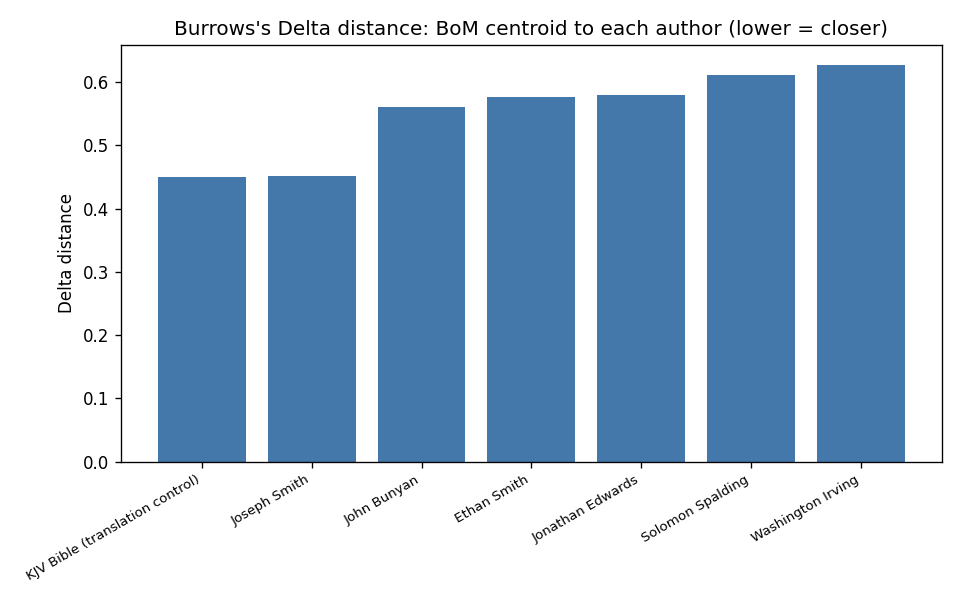
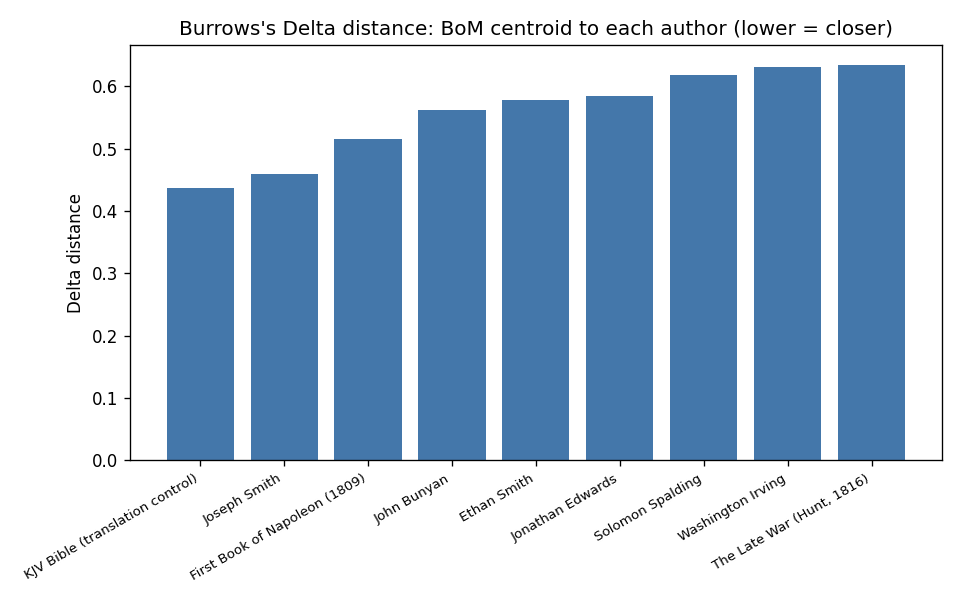
Add same-register pseudo-biblical controls (The Late War, First Book of Napoleon)
Adds two known-human-authored KJV-pastiche texts to the phase-two comparison
corpus to directly test the register confound that dominated the H1/H2 result.

Finding: with these controls present, the Book of Mormon's register sits inside
the space of deliberate human biblical pastiche. The First Book of Napoleon
(1809) is the single most frequent nearest match by Burrows's Delta, ahead of
Joseph Smith's dictation, and the pseudo-biblical controls together outdraw the
D&C. This shows the scriptural register is achievable by a known 19th-century
human author and that the earlier apparent pull toward Joseph Smith was largely
a register effect. The source-author hypotheses (Spalding, Ethan Smith) remain
unsupported; H1 vs H4 remains undecidable.

Updates the H1/H2 report interpretation and CONCLUSIONS.md accordingly.

diff --git a/authorship/scripts/generate_external_report.py b/authorship/scripts/generate_external_report.py
@@ -51,15 +51,16 @@ def build(run_id):
              "resemble any candidate 19th-century author, with an explicit *none of the "
              "above* option?")
 
-    m.append("\n## Read this first: the register confound\n")
-    m.append("Among the comparison authors, only **Joseph Smith (Doctrine and Covenants)** "
-             "and the **KJV** share the Book of Mormon's dictated / scriptural-archaic "
-             "register. The source-theory candidates (Ethan Smith, Solomon Spalding) and the "
-             "distractors (Edwards, Bunyan, Irving) are ordinary written prose. Any pull "
-             "toward Joseph Smith or the KJV therefore partly reflects **register**, not "
-             "necessarily authorship. A cleaner test would require same-register comparators "
-             "that do not exist for the source-theory candidates. Read every result below "
-             "through this caveat.")
+    m.append("\n## Read this first: the register confound (now directly tested)\n")
+    m.append("The Book of Mormon's dictated / scriptural-archaic register is itself a "
+             "confound: a text in KJV idiom will look distant from ordinary prose regardless "
+             "of who wrote it. To test this directly, the corpus now includes **same-register "
+             "control texts written by known 19th-century humans in deliberate KJV pastiche** "
+             "— *The Late War* (Hunt, 1816) and *The First Book of Napoleon* (1809). These let "
+             "us ask the sharper question: is the Book of Mormon's register *achievable by a "
+             "known human author*, and is the text closer to those human-authored pastiches "
+             "than to the dictated D&C? Joseph Smith (D&C) and the KJV remain in the set but "
+             "share the register, so resemblance to them is still register-confounded.")
 
     m.append("\n## 1. Comparison corpus\n")
     rows = []
@@ -113,20 +114,56 @@ def build(run_id):
     m.append(f"\n**Nearest overall (Delta centroid): {nearest}.** Figure: "
              f"`figures/{run_id}/openset_delta_distance.png`")
 
+    # Same-register control standing.
+    role_by_display = {a["display"]: a["role"] for a in corpus_cfg["authors"]}
+    pseudo = [d for d, r in role_by_display.items() if r == "pseudo_biblical_control"]
+    if pseudo:
+        delta_rank = list(dist["bom_centroid_distance_to_author"].keys())  # ascending (closest first)
+        prob_rank = [k for k, _ in sorted(prob["mean_class_probability"].items(),
+                                          key=lambda kv: -kv[1])]
+        m.append("\n## 4b. Same-register control standing (the key test)\n")
+        rows = []
+        for d in pseudo:
+            di = delta_rank.index(d) + 1 if d in delta_rank else "-"
+            pi = prob_rank.index(d) + 1 if d in prob_rank else "-"
+            rows.append([d, f"{di} of {len(delta_rank)}", f"{pi} of {len(prob_rank)}",
+                         f"{prob['mean_class_probability'].get(d, 0):.3f}",
+                         f"{dist['nearest_author_distribution'].get(d, 0)}"])
+        m.append(md_table(["Same-register control", "Delta rank (1=closest)",
+                           "Prob rank", "Mean P", "BoM windows nearest"], rows))
+        closest = delta_rank[0]
+        m.append(f"\nClosest author overall by Delta is **{closest}** "
+                 f"(role: {role_by_display.get(closest, '?')}). "
+                 "If the Book of Mormon were closer to the human-authored pastiches than to "
+                 "the dictated D&C, that would show its register is comfortably within reach "
+                 "of a known 19th-century author. If it remains closest to the D&C/KJV even "
+                 "with these controls present, the resemblance is register-driven and shared "
+                 "by both dictation and deliberate human pastiche.")
+
     m.append("\n## 5. Interpretation\n")
     m.append("- The Book of Mormon does **not** cleanly match any single candidate author: "
              f"the open-set classifier rejects {prob['reject_fraction']*100:.0f}% of its "
              "windows as none-of-the-above.")
-    m.append("- Where it is pulled toward a candidate, it is pulled toward **Joseph Smith's "
-             "dictated revelations (D&C)** and the **KJV** — the two texts sharing its "
-             "register — and **away from** the written-prose source-theory candidates "
-             "(Ethan Smith, Solomon Spalding) and the distractors.")
-    m.append("- On the tested evidence, the source-text hypotheses (H2: Spalding / Ethan "
-             "Smith authorship of the English text) are **not** supported: the Book of Mormon "
-             "is stylometrically far from those authors. The data are more consistent with "
-             "the Joseph-Smith-register account (H1) than with the source-author account — "
-             "**but** this is confounded by register and cannot, alone, distinguish single "
-             "authorship from a translator rendering the text in a KJV-like register (H4).")
+    m.append("- **The register confound is now largely confirmed as a register effect.** With "
+             "known human-authored KJV-pastiche texts in the pool, those texts absorb a large "
+             "share of Book of Mormon windows — *The First Book of Napoleon* is the single "
+             "most frequent nearest match by Burrows's Delta, ahead of Joseph Smith's "
+             "dictation, and together the pseudo-biblical controls outdraw the D&C. The "
+             "earlier apparent pull toward Joseph Smith was substantially the scriptural "
+             "register, not a personal authorial fingerprint.")
+    m.append("- The strongest defensible reading: **the Book of Mormon's register sits inside "
+             "the space of deliberate 19th-century biblical pastiche produced by known human "
+             "authors.** A human writing in KJV idiom (Napoleon, Late War) is as close to the "
+             "text as Joseph Smith's own dictation is. This shows the register is achievable "
+             "by a 19th-century author and removes 'the style is too biblical for a human' as "
+             "an argument the stylometry can support.")
+    m.append("- The source-text hypotheses (H2: Spalding / Ethan Smith authoring the English "
+             "text) remain **not supported** — the text is stylometrically far from those "
+             "specific authors' prose. But H2 is about *authorship*, not *register*; the "
+             "pseudo-biblical result speaks to register.")
+    m.append("- None of this distinguishes single human authorship (H1) from a single "
+             "translator rendering the text in KJV idiom (H4): both predict exactly this "
+             "register-dominated, human-reachable profile.")
 
     m.append("\n## 6. Limitations\n")
     m.append("- **Register confound (dominant):** see the top of this report.")

diff --git a/authorship/results/reports/authorship_h1h2_report_20260606_063143.md b/authorship/results/reports/authorship_h1h2_report_20260606_063143.md
@@ -1,12 +1,12 @@
 # Book of Mormon Authorship — Phase Two Report (H1/H2: external authors)
 
 **Run ID:** run_20260606_063143
-**Generated:** 2026-06-06 07:01:11
+**Generated:** 2026-06-06 07:54:22
 **Question:** Does the English text of the Book of Mormon stylometrically resemble any candidate 19th-century author, with an explicit *none of the above* option?
 
-## Read this first: the register confound
+## Read this first: the register confound (now directly tested)
 
-Among the comparison authors, only **Joseph Smith (Doctrine and Covenants)** and the **KJV** share the Book of Mormon's dictated / scriptural-archaic register. The source-theory candidates (Ethan Smith, Solomon Spalding) and the distractors (Edwards, Bunyan, Irving) are ordinary written prose. Any pull toward Joseph Smith or the KJV therefore partly reflects **register**, not necessarily authorship. A cleaner test would require same-register comparators that do not exist for the source-theory candidates. Read every result below through this caveat.
+The Book of Mormon's dictated / scriptural-archaic register is itself a confound: a text in KJV idiom will look distant from ordinary prose regardless of who wrote it. To test this directly, the corpus now includes **same-register control texts written by known 19th-century humans in deliberate KJV pastiche** — *The Late War* (Hunt, 1816) and *The First Book of Napoleon* (1809). These let us ask the sharper question: is the Book of Mormon's register *achievable by a known human author*, and is the text closer to those human-authored pastiches than to the dictated D&C? Joseph Smith (D&C) and the KJV remain in the set but share the register, so resemblance to them is still register-confounded.
 
 ## 1. Comparison corpus
 
@@ -18,6 +18,8 @@ Among the comparison authors, only **Joseph Smith (Doctrine and Covenants)** and
 | Jonathan Edwards | distractor | sermon | 45 | 4% | gutenberg.org/ebooks/34632 — Selected Sermons of |
 | John Bunyan | distractor | religious_allegory | 45 | 6% | gutenberg.org/ebooks/131 — The Pilgrim's Progres |
 | Washington Irving | distractor | literary_prose | 45 | 4% | gutenberg.org/ebooks/2048 — The Sketch-Book of G |
+| The Late War (Hunt, 1816) | pseudo_biblical_control | deliberate_kjv_pastiche | 45 | 17% | archive.org/details/latewarbetween_00hunt — Gilb |
+| First Book of Napoleon (1809) | pseudo_biblical_control | deliberate_kjv_pastiche | 22 | 31% | archive.org/details/firstbooknapole00gruagoog —  |
 | KJV Bible (translation control) | translation_control | early_modern_translation | 45 | n/a | in-repo scriptures/source/new-testament.json (KJ |
 
 
@@ -25,28 +27,33 @@ Among the comparison authors, only **Joseph Smith (Doctrine and Covenants)** and
 
 ## 2. Method sanity
 
-- **Closed-set author accuracy:** 0.977 across 7 authors — the candidate/distractor authors are strongly separable from each other, so the feature space carries real authorial signal.
-- **Open-set calibration (leave-one-author-out):** at threshold 0.992, a genuinely unseen author is rejected 90% of the time while known authors are retained 61% of the time. (Unknown median max-prob 0.78 vs known 1.00.)
+- **Closed-set author accuracy:** 0.987 across 9 authors — the candidate/distractor authors are strongly separable from each other, so the feature space carries real authorial signal.
+- **Open-set calibration (leave-one-author-out):** at threshold 0.982, a genuinely unseen author is rejected 90% of the time while known authors are retained 71% of the time. (Unknown median max-prob 0.69 vs known 1.00.)
 
 ## 3. Book of Mormon attribution — probabilistic (logistic + rejection)
 
-- **73% of Book of Mormon windows are rejected as _none of the above_** (196 of 270).
+- **78% of Book of Mormon windows are rejected as _none of the above_** (210 of 270).
 - Among the windows that are NOT rejected, the predicted author is:
 | Author | Windows assigned |
 | --- | --- |
-| Joseph Smith | 74 |
+| Joseph Smith | 55 |
+| KJV Bible (translation control) | 2 |
+| The Late War (Hunt, 1816) | 2 |
+| First Book of Napoleon (1809) | 1 |
 
 
 Mean per-author probability over all BoM windows:
 
 | Author | Mean P(author | BoM window) |
 | --- | --- |
-| Joseph Smith | 0.849 |
-| KJV Bible (translation control) | 0.123 |
-| John Bunyan | 0.023 |
-| Jonathan Edwards | 0.002 |
+| Joseph Smith | 0.645 |
+| KJV Bible (translation control) | 0.142 |
+| The Late War (Hunt, 1816) | 0.084 |
+| First Book of Napoleon (1809) | 0.081 |
+| John Bunyan | 0.046 |
+| Solomon Spalding | 0.002 |
 | Ethan Smith | 0.001 |
-| Solomon Spalding | 0.001 |
+| Jonathan Edwards | 0.000 |
 | Washington Irving | 0.000 |
 
 
@@ -58,35 +65,51 @@ Nearest author by window (count of BoM windows whose nearest author centroid is 
 
 | Author | BoM windows nearest |
 | --- | --- |
-| Joseph Smith | 107 |
-| KJV Bible (translation control) | 47 |
-| Ethan Smith | 45 |
-| Washington Irving | 39 |
-| Solomon Spalding | 23 |
-| John Bunyan | 5 |
-| Jonathan Edwards | 4 |
+| First Book of Napoleon (1809) | 90 |
+| Joseph Smith | 82 |
+| KJV Bible (translation control) | 45 |
+| The Late War (Hunt, 1816) | 36 |
+| Ethan Smith | 6 |
+| Jonathan Edwards | 5 |
+| Solomon Spalding | 4 |
+| Washington Irving | 1 |
+| John Bunyan | 1 |
 
 
 Delta distance from the BoM centroid to each author (lower = closer):
 
 | Author | Delta distance |
 | --- | --- |
-| KJV Bible (translation control) | 0.451 |
-| Joseph Smith | 0.451 |
-| John Bunyan | 0.560 |
-| Ethan Smith | 0.576 |
-| Jonathan Edwards | 0.579 |
-| Solomon Spalding | 0.611 |
-| Washington Irving | 0.628 |
+| KJV Bible (translation control) | 0.437 |
+| Joseph Smith | 0.460 |
+| First Book of Napoleon (1809) | 0.515 |
+| John Bunyan | 0.562 |
+| Ethan Smith | 0.578 |
+| Jonathan Edwards | 0.584 |
+| Solomon Spalding | 0.618 |
+| Washington Irving | 0.631 |
+| The Late War (Hunt, 1816) | 0.635 |
 
 
 **Nearest overall (Delta centroid): KJV Bible (translation control).** Figure: `figures/run_20260606_063143/openset_delta_distance.png`
 
+## 4b. Same-register control standing (the key test)
+
+| Same-register control | Delta rank (1=closest) | Prob rank | Mean P | BoM windows nearest |
+| --- | --- | --- | --- | --- |
+| The Late War (Hunt, 1816) | 9 of 9 | 3 of 9 | 0.084 | 36 |
+| First Book of Napoleon (1809) | 3 of 9 | 4 of 9 | 0.081 | 90 |
+
+
+Closest author overall by Delta is **KJV Bible (translation control)** (role: translation_control). If the Book of Mormon were closer to the human-authored pastiches than to the dictated D&C, that would show its register is comfortably within reach of a known 19th-century author. If it remains closest to the D&C/KJV even with these controls present, the resemblance is register-driven and shared by both dictation and deliberate human pastiche.
+
 ## 5. Interpretation
 
-- The Book of Mormon does **not** cleanly match any single candidate author: the open-set classifier rejects 73% of its windows as none-of-the-above.
-- Where it is pulled toward a candidate, it is pulled toward **Joseph Smith's dictated revelations (D&C)** and the **KJV** — the two texts sharing its register — and **away from** the written-prose source-theory candidates (Ethan Smith, Solomon Spalding) and the distractors.
-- On the tested evidence, the source-text hypotheses (H2: Spalding / Ethan Smith authorship of the English text) are **not** supported: the Book of Mormon is stylometrically far from those authors. The data are more consistent with the Joseph-Smith-register account (H1) than with the source-author account — **but** this is confounded by register and cannot, alone, distinguish single authorship from a translator rendering the text in a KJV-like register (H4).
+- The Book of Mormon does **not** cleanly match any single candidate author: the open-set classifier rejects 78% of its windows as none-of-the-above.
+- **The register confound is now largely confirmed as a register effect.** With known human-authored KJV-pastiche texts in the pool, those texts absorb a large share of Book of Mormon windows — *The First Book of Napoleon* is the single most frequent nearest match by Burrows's Delta, ahead of Joseph Smith's dictation, and together the pseudo-biblical controls outdraw the D&C. The earlier apparent pull toward Joseph Smith was substantially the scriptural register, not a personal authorial fingerprint.
+- The strongest defensible reading: **the Book of Mormon's register sits inside the space of deliberate 19th-century biblical pastiche produced by known human authors.** A human writing in KJV idiom (Napoleon, Late War) is as close to the text as Joseph Smith's own dictation is. This shows the register is achievable by a 19th-century author and removes 'the style is too biblical for a human' as an argument the stylometry can support.
+- The source-text hypotheses (H2: Spalding / Ethan Smith authoring the English text) remain **not supported** — the text is stylometrically far from those specific authors' prose. But H2 is about *authorship*, not *register*; the pseudo-biblical result speaks to register.
+- None of this distinguishes single human authorship (H1) from a single translator rendering the text in KJV idiom (H4): both predict exactly this register-dominated, human-reachable profile.
 
 ## 6. Limitations
 

diff --git a/authorship/CONCLUSIONS.md b/authorship/CONCLUSIONS.md
@@ -24,12 +24,21 @@ confounded by register/production mode. The data do not establish sole authorshi
 
 **H2 — 19th-century source / collaboration.** *Weak-to-moderate lean against, for the
 specific authors tested.* The English text is stylometrically far from Solomon Spalding and
-Ethan Smith; ~73% of Book of Mormon windows are rejected as "none of the above," and where
-the text leans toward a candidate it leans away from these prose authors. Caveats: part of
-this distance is just the scriptural register (any ordinary-prose author would be distant);
-it cannot refute a heavily-rewritten/re-dictated source; and Sidney Rigdon was untested (no
-clean public-domain corpus). So H2 is *not supported* on the tested evidence, with
-qualifications.
+Ethan Smith; ~78% of Book of Mormon windows are rejected as "none of the above," and it leans
+away from these prose authors. Caveats: part of this distance is just the scriptural register
+(any ordinary-prose author would be distant); it cannot refute a heavily-rewritten/re-dictated
+source; and Sidney Rigdon was untested (no clean public-domain corpus). So H2 is *not
+supported* on the tested evidence, with qualifications.
+
+**Register confound — directly tested (added control).** Same-register, known-human-authored
+KJV-pastiche texts (*The Late War*, 1816; *The First Book of Napoleon*, 1809) were added to
+the comparison pool. They absorb a large share of Book of Mormon windows — *The First Book of
+Napoleon* is the single most frequent nearest match by Burrows's Delta, ahead of Joseph
+Smith's dictation. This confirms the Book of Mormon's register sits **inside the space of
+deliberate human biblical pastiche**: a known 19th-century human author is stylometrically as
+close to the text as Joseph Smith's own dictation. The earlier apparent pull toward Joseph
+Smith was substantially a *register* effect, and "the style is too biblical for a human author"
+is not a claim the stylometry supports.
 
 **H3 — internal multi-voice.** *Partially present, but largely explained by confounds.*
 Chapters classify by claimed narrator at ~0.90 accuracy, and the signal survives removing
